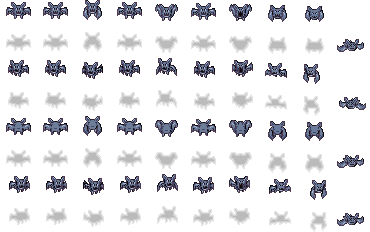
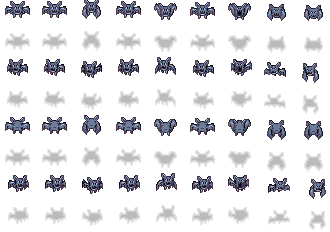
Added charater direction capabilities

diff --git a/Classes/MainCharacter.py b/Classes/MainCharacter.py
@@ -15,11 +15,12 @@ class Character:
         self.maxSpeed = 3
         self.health = 100
         self.activeAbility = Cannon()
-
         self.image:simplegui.Image = image
         self.rotation = rotation
-        self.dim = ( self.image.get_width() , self.image.get_height() )
-        self.center = ( self.image.get_width()/2 , self.image.get_height()/2 )
+        self.dim = ( self.image.get_width(), self.image.get_height())
+        self.center = ( self.image.get_width()/2, self.image.get_height()/2)
+        self.directions = ["UP", "LEFT", "DOWN", "RIGHT"]
+        self.direction = ""
 
         if size == 0:
             self.size = self.dim
@@ -34,7 +35,18 @@ class Character:
     def draw(self,canvas,offset):
         canvas.draw_image(self.image, self.center, self.dim, (self.pos+offset).getP(), self.size, self.rotation)
 
-    def update(self,keyboard,zoom):
+    def update(self,keyboard,zoom, mousePos, offset):
+        angle = math.atan2((self.pos + offset).getP()[0] - mousePos[0],
+                           (self.pos + offset).getP()[1] - mousePos[1])
+        for i in range(len(self.directions)):
+            if ((i - 0.5) / len(self.directions) * 2 * math.pi) <= angle <= (
+                    (i + 0.5) / len(self.directions) * 2 * math.pi):
+                self.direction = self.directions[i]
+                #  Split for clarity
+            elif ((i - 0.5 - len(self.directions)) / len(self.directions) * 2 * math.pi) <= angle <= (
+                    (i + 0.5 - len(self.directions)) / len(self.directions) * 2 * math.pi):
+                self.direction = self.directions[i]
+
         if keyboard.right:
             self.vel.add(Vector(self.speed,0))
         if keyboard.left:

diff --git a/Main.py b/Main.py
@@ -7,13 +7,12 @@ from Classes.Interactions import Interactions
 from Classes.Vector import Vector
 from Classes.MainCharacter import Character
 from Classes.MainCharacter import Keyboard
-# from Classes.Maps.Map import Map
+from Classes.Maps.Map import Map
 from Classes.View import View
 from Classes.Inventory import Inventory
 from Classes.Enemy.Line import Line
 from Classes.healthIMG import HealthIMG
 from Classes.Health import Health
-from Classes.Maps.Mand import Map
 import pygame
 import random
 
@@ -74,7 +73,7 @@ def draw(canvas):
     #Drawing and Updates
     map.draw(canvas,offset)
     character.draw(canvas,offset)
-    character.update(keyboard,map.zoom)
+    character.update(keyboard,map.zoom, mousePos, offset)
 
     canvas.draw_circle(mousePos,10,1,"darkblue","darkblue")
     for enemy in enemies:
